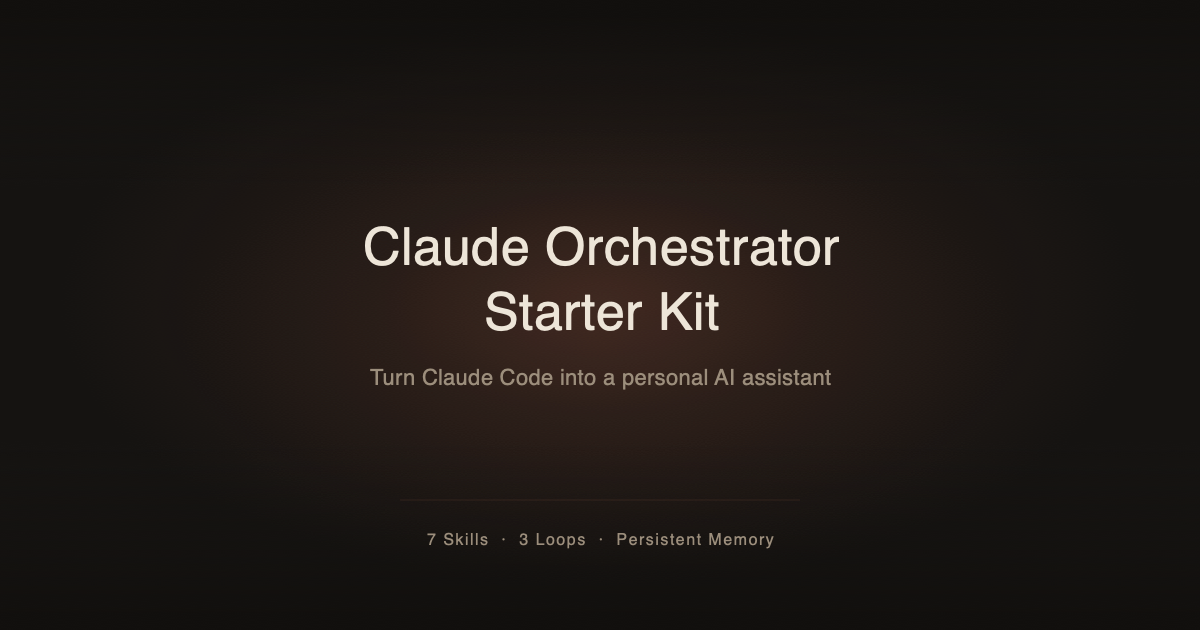
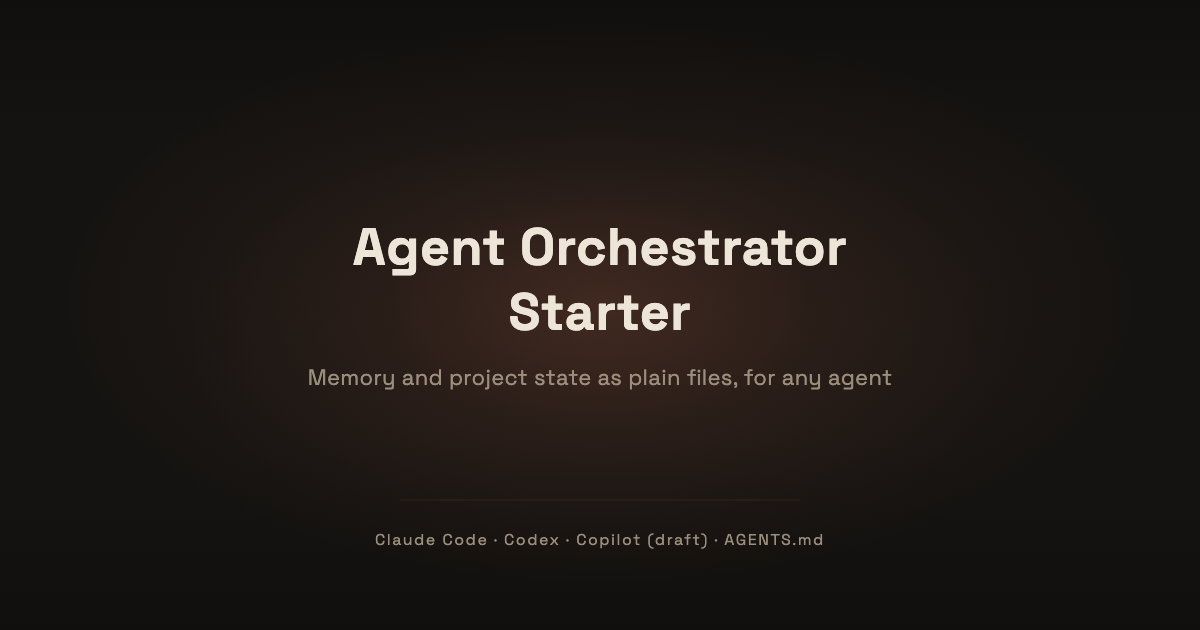
Update the social preview image to the new name (#6)
Claude-Session: https://claude.ai/code/session_018VBmaksgvVcDuF29iXytCN

diff --git a/STATE.md b/STATE.md
@@ -52,8 +52,6 @@ the main cost; two template flaws were found and fixed. Details: `VALIDATION.md`
 - `scripts/check-kit.sh` does not validate `.md.example` / `.md.template` files and only
   recognizes code fences that start in column 0.
 - `scripts/check-depersonalized.sh` scans files, not commit metadata.
-- The website's social preview image (`docs/og-image.png`, `.svg`) still shows the old
-  name and tagline.
 - The "bigger picture" diagram on the website repeats the optional stores in two places;
   a cleaner redraw is open.
 - Older files (`docs/getting-started.md`, `docs/faq.md`,
